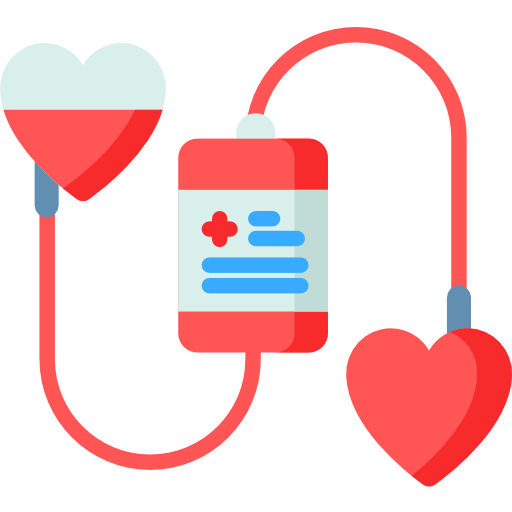
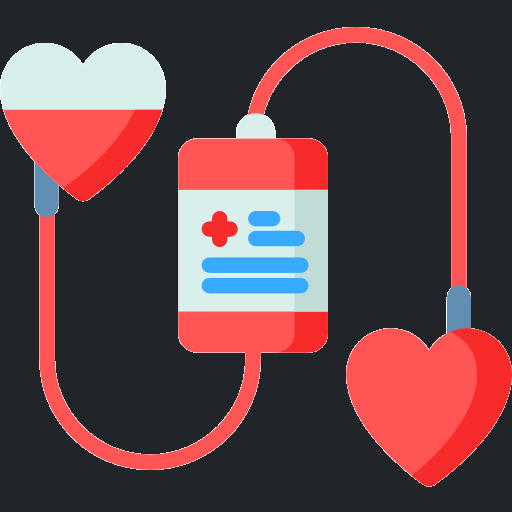
Correction page login

diff --git a/src/app/pages/login/login.css b/src/app/pages/login/login.css
@@ -10,7 +10,7 @@
 :host::before {
   content: '';
   background-image: url('/don-de-sang.png');
-  background-size: contain; /* Le logo s'adapte sans jamais être coupé */
+  background-size: cover; /* Le logo s'adapte sans jamais être coupé */
   background-repeat: no-repeat; /* Un seul et unique logo */
   background-position: center; /* Centré verticalement et horizontalement */
   width: 100%;
